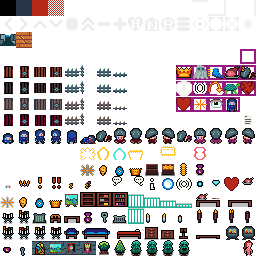
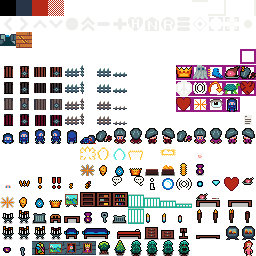
Implement item layering (allowing items to be drawn above player+guards) and glow animations.

diff --git a/src/game.ts b/src/game.ts
@@ -1,6 +1,6 @@
 import { vec2, mat4 } from './my-matrix';
 import { createGameMapRoughPlans, createGameRoughPlansDailyRun, createGameMap, Adjacency } from './create-map';
-import { BooleanGrid, Cell, ItemType, GameMap, Item, Player, LevelType, TerrainType, maxPlayerTurnsUnderwater, GuardStates, CellGrid, isDoorItemType, isWindowTerrainType } from './game-map';
+import { BooleanGrid, Cell, ItemType, GameMap, Item, Player, LevelType, TerrainType, maxPlayerTurnsUnderwater, GuardStates, CellGrid, isDoorItemType, isWindowTerrainType, itemLayers } from './game-map';
 import { SpriteAnimation, LightSourceAnimation, tween, LightState, FrameAnimator, TweenData, RadialAnimation as IdleRadialAnimation, PulsingColorAnimation, RadialAnimation } from './animation';
 import { Guard, GuardMode, chooseGuardMoves, guardActAll, isRelaxedGuardMode, lineOfSight } from './guard';
 import { Renderer } from './render';
@@ -383,6 +383,7 @@ export function setupLevel(state: State, level: number) {
     state.lightStates = new Array(state.gameMap.lightCount).fill(0);
     setLights(state.gameMap, state);
     setCellAnimations(state.gameMap, state);
+    setItemAnimations(state.gameMap, state);
     state.hintMessage = '';
     resetHealthBar(state);
     state.finishedLevel = false;
@@ -870,12 +871,12 @@ function collectGuardLoot(state:State, player:Player, guard:Guard, posNew:vec2, 
         guard.hasPurse = false;
         player.loot += 1;
         state.lootStolen += 1;
-        pickedItem = {pos:vec2.clone(guard.pos), type:ItemType.Coin};
+        pickedItem = {pos:vec2.clone(guard.pos), type:ItemType.Coin, topLayer:itemLayers[ItemType.Coin]};
     }
     if (guard.hasVaultKey) {
         guard.hasVaultKey = false;
         player.hasVaultKey = true;
-        pickedItem = {pos:vec2.clone(guard.pos), type:ItemType.Key};
+        pickedItem = {pos:vec2.clone(guard.pos), type:ItemType.Key, topLayer:itemLayers[ItemType.Key]};
     }
     const itemTiles = itemTileSetForLevelType(state.gameMapRoughPlans[state.level].levelType, entityTileSet);
     if(pickedItem) {
@@ -2401,11 +2402,11 @@ function renderTerrain(state: State, renderer: Renderer) {
 }
 
 
-function renderItems(state: State, renderer: Renderer) {
+function renderItems(state: State, renderer: Renderer, topLayer: boolean) {
     // Draw items
     const itemTiles = itemTileSetForLevelType(state.gameMapRoughPlans[state.level].levelType, renderer.entityTileSet);
 
-    for(const item of state.gameMap.items) {
+    for(const item of state.gameMap.items.filter(item=>item.topLayer===topLayer)) {
         let x = item.pos[0];
         let y = item.pos[1];
         const cell = state.gameMap.cells.at(x, y);
@@ -2434,10 +2435,15 @@ function renderItems(state: State, renderer: Renderer) {
                 renderer.addGlyphLit4(x, y, x + 1, y + 1, itemTiles[item.type], lv);
             }
         } else if (item.type===ItemType.Treasure) {
-            const ti = item.animation ?
-                item.animation.currentTile() :
-                itemTiles[item.type];
-            renderer.addGlyphLit4(x, y+0.5, x + 1, y + 1.5, ti, lv);
+            renderer.addGlyph(x, y+0.5, x + 1, y + 1.5, itemTiles[item.type]);
+            if (item.animation) {
+                renderer.addGlyph(x, y+0.5, x + 1, y + 1.5, item.animation.currentTile());
+            }
+        } else if (item.type===ItemType.Coin) {
+            renderer.addGlyph(x, y, x + 1, y + 1, itemTiles[item.type]);
+            if (item.animation) {
+                renderer.addGlyph(x, y, x + 1, y + 1, item.animation.currentTile());
+            }
         } else {
             const ti = item.animation ?
                 item.animation.currentTile() :
@@ -3022,6 +3028,7 @@ function initState(sounds:Howls, subtitledSounds: SubtitledHowls, activeSoundPoo
 
     setLights(gameMap, state);
     setCellAnimations(gameMap, state);
+    setItemAnimations(gameMap, state);
     chooseGuardMoves(state);
     postTurn(state);
     showMoveTutorialNotifications(state, state.player.pos);
@@ -3051,6 +3058,16 @@ function setCellAnimations(gameMap: GameMap, state: State) {
         if(c.type===TerrainType.GroundWater) {
             c.animation = new FrameAnimator(waterTileSetForLevelType(levelType, tileSet), 1, (counter*1369)%4);
             counter++;
+        }
+    }
+}
+
+function setItemAnimations(gameMap: GameMap, state: State) {
+    for (let item of gameMap.items) {
+        if (item.type===ItemType.Treasure) {
+            item.animation = new PulsingColorAnimation(getEntityTileSet().itemGlows[item.type], 0, 1);
+        } else if (item.type===ItemType.Coin) {
+            item.animation = new PulsingColorAnimation(getEntityTileSet().itemGlows[item.type], 0, .75);
         }
     }
 }
@@ -3143,6 +3160,7 @@ export function restartGame(state: State) {
     state.lightStates = Array(gameMap.lightCount).fill(0);
     setLights(gameMap, state);
     setCellAnimations(gameMap, state);
+    setItemAnimations(gameMap, state);
     state.gameMode = GameMode.Mansion;
     state.hintMessage = '';
     resetHealthBar(state);
@@ -3189,6 +3207,7 @@ function resetState(state: State) {
     state.lightStates = Array(gameMap.lightCount).fill(0);
     setLights(gameMap, state);
     setCellAnimations(gameMap, state);
+    setItemAnimations(gameMap, state);
     state.turns = 0;
     state.totalTurns = 0;
     state.lootStolen = 0;
@@ -3384,6 +3403,9 @@ function updateState(state: State, screenSize: vec2, dt: number) {
     for(let c of state.gameMap.cells.values) {
         c.animation?.update(dt);
     }
+    for(let i of state.gameMap.items) {
+        i.animation?.update(dt);
+    }
     for(let g of state.gameMap.guards) {
         if(g.animation?.update(dt)) {
             g.animation = null;
@@ -3435,7 +3457,7 @@ function renderScene(renderer: Renderer, screenSize: vec2, state: State) {
     renderer.flush();
 
     renderer.start(matScreenFromWorld, TextureType.Entity);
-    renderItems(state, renderer);
+    renderItems(state, renderer, false);
     if(state.gameMode===GameMode.Mansion) {
         renderGuardSight(state, renderer);
         renderGuardPatrolPaths(state, renderer);
@@ -3444,6 +3466,7 @@ function renderScene(renderer: Renderer, screenSize: vec2, state: State) {
     if ((state.gameMode !== GameMode.MansionComplete && state.gameMode !== GameMode.Win) || state.player.animation) {
         renderPlayer(state, renderer);
     }
+    renderItems(state, renderer, true);
     renderParticles(state, renderer);
     if(state.gameMode===GameMode.Mansion) {
         renderIconOverlays(state, renderer);

diff --git a/src/create-map.ts b/src/create-map.ts
@@ -1,6 +1,6 @@
 export { createGameMap, createGameMapRoughPlans, createGameRoughPlansDailyRun, Adjacency };
 
-import { BooleanGrid, CellGrid, Int32Grid, Item, ItemType, Float64Grid, GameMap, GameMapRoughPlan, LevelType, TerrainType, TreasureInfo, guardMoveCostForItemType, isWindowTerrainType } from './game-map';
+import { BooleanGrid, CellGrid, Int32Grid, Item, ItemType, Float64Grid, GameMap, GameMapRoughPlan, LevelType, TerrainType, TreasureInfo, guardMoveCostForItemType, isWindowTerrainType, itemLayers } from './game-map';
 import { Guard } from './guard';
 import { vec2 } from './my-matrix';
 import { RNG } from './random';
@@ -4347,7 +4347,8 @@ function renderRoomVault(map: GameMap, room: Room, rng: RNG) {
         console.assert(usable.get(pos[0], pos[1]));
         console.assert(!occupied.get(pos[0], pos[1]));
 
-        const item = { pos: vec2.fromValues(pos[0] + room.posMin[0], pos[1] + room.posMin[1]), type: candidateItems[iItemType] };
+        const iType = candidateItems[iItemType];
+        const item = { pos: vec2.fromValues(pos[0] + room.posMin[0], pos[1] + room.posMin[1]), type: iType, topLayer:itemLayers[iType] };
         map.items.push(item);
         itemsInRoom.push(item);
 
@@ -4429,8 +4430,8 @@ function renderRoomBedroom(map: GameMap, room: Room, level: number, rng: RNG) {
         const pos0 = potentialPositions[rng.randomInRange(potentialPositions.length)];
         const pos1 = vec2.fromValues(pos0[0] + 1, pos0[1]);
 
-        const itemBedL = { pos: vec2.clone(pos0), type: ItemType.BedL };
-        const itemBedR = { pos: vec2.clone(pos1), type: ItemType.BedR };
+        const itemBedL = { pos: vec2.clone(pos0), type: ItemType.BedL, topLayer:itemLayers[ItemType.BedL] };
+        const itemBedR = { pos: vec2.clone(pos1), type: ItemType.BedR, topLayer:itemLayers[ItemType.BedR] };
         map.items.push(itemBedL);
         map.items.push(itemBedR);
         itemsInRoom.push(itemBedL); // will check adjacency for the right side of the bed with this too
@@ -4467,7 +4468,7 @@ function renderRoomBedroom(map: GameMap, room: Room, level: number, rng: RNG) {
         console.assert(usable.get(pos[0], pos[1]));
         console.assert(!occupied.get(pos[0], pos[1]));
 
-        const item = { pos: vec2.fromValues(pos[0] + room.posMin[0], pos[1] + room.posMin[1]), type: itemType };
+        const item = { pos: vec2.fromValues(pos[0] + room.posMin[0], pos[1] + room.posMin[1]), type: itemType, topLayer:itemLayers[itemType] };
         map.items.push(item);
         itemsInRoom.push(item);
 
@@ -5254,6 +5255,7 @@ function placeItem(map: GameMap, pos: vec2, type: ItemType) {
     map.items.push({
         pos: vec2.clone(pos),
         type: type,
+        topLayer: itemLayers[type],
     });
 }
 
@@ -5569,6 +5571,7 @@ function placeTreasure(map: GameMap, rooms: Array<Room>, rng: RNG) {
             const note = {
                 pos: vec2.clone(pos),
                 type: ItemType.Note,
+                topLayer: itemLayers[ItemType.Note],
             };
             map.items.push(note);
             map.bookTitle.set(note, clue);

diff --git a/src/tilesets.ts b/src/tilesets.ts
@@ -1,5 +1,6 @@
 import * as colorPreset from './color-preset';
 import { Achievements } from './achievements';
+import { ItemType } from './game-map';
 
 const entityImageTileset31Color = require('url:./entitytiles31color.png');
 const terrainImageTileset31Color = require('url:./terraintiles31color.png');
@@ -63,6 +64,10 @@ export type EntityTileSet = {
         dead:    TileInfo;
         litFace: TileInfo;
     };
+    itemGlows : {
+        [ItemType.Coin]: TileInfo;
+        [ItemType.Treasure]: TileInfo;
+    }
     unlitTile: TileInfo;
     stoveAnimation: Array<TileInfo>;
     candleAnimation: Array<TileInfo>;
@@ -341,6 +346,10 @@ const entityTileSet31Color:EntityTileSet = {
         'forceRestart':     {textureIndex: r([10, 1]), color:0xa0ffffff, unlitColor:0x30ffffff},
         'fullscreen':       {textureIndex: r([14, 1]), color:0xa0ffffff, unlitColor:0x30ffffff},
     },
+    itemGlows: {
+        [ItemType.Coin]:    {textureIndex: r([12,  9]),  color:0xa0ffffff,      unlitColor:0x00ffffff},
+        [ItemType.Treasure]:{textureIndex: r([5,   9]),  color:0xa0ffffff,      unlitColor:0x00ffffff},
+    },
     itemTiles: [
         {textureIndex: r([3,  13]),  color:colorPreset.white,      unlitColor:colorItemUnlit}, // ItemType.Chair,
         {textureIndex: r([4,  13]),  color:colorPreset.white,      unlitColor:colorItemUnlit}, // ItemType.Table,
@@ -369,7 +378,7 @@ const entityTileSet31Color:EntityTileSet = {
         {textureIndex: r([15,  7]),  color:colorPreset.white,      unlitColor:colorItemUnlit}, // ItemType.Note,
         {textureIndex: r([8,  13]),  color:colorPreset.white,      unlitColor:colorItemUnlit}, // ItemType.TreasureLockBox,
         {textureIndex: r([7,  13]),  color:colorPreset.white,      unlitColor:colorItemUnlit}, // ItemType.TreasurePlinth,
-        {textureIndex: r([0,  12]),  color:colorPreset.white,      unlitColor:colorPreset.white}, // ItemType.Treasure,
+        {textureIndex: r([5,  10]),  color:colorPreset.white,      unlitColor:colorPreset.white}, // ItemType.Treasure,
     ],
     redWallItemTiles: [
         {textureIndex: r([3,  13]),  color:colorPreset.white,      unlitColor:colorItemUnlit}, // ItemType.Chair,

diff --git a/src/game-map.ts b/src/game-map.ts
@@ -279,10 +279,42 @@ enum ItemType {
     Treasure,
 }
 
+export const itemLayers: Record<ItemType, boolean> = {
+    [ItemType.Chair]: false,
+    [ItemType.Table]: false,
+    [ItemType.BedL]: false,
+    [ItemType.BedR]: false,
+    [ItemType.DrawersShort]: false,
+    [ItemType.DrawersTall]: false,
+    [ItemType.Bookshelf]: false,
+    [ItemType.Shelf]: false,
+    [ItemType.Stove]: false,
+    [ItemType.Bush]: false,
+    [ItemType.Coin]: true,
+    [ItemType.Health]: false,
+    [ItemType.DoorNS]: false,
+    [ItemType.DoorEW]: false,
+    [ItemType.LockedDoorNS]: false,
+    [ItemType.LockedDoorEW]: false,
+    [ItemType.PortcullisNS]: false,
+    [ItemType.PortcullisEW]: false,
+    [ItemType.TorchUnlit]: false,
+    [ItemType.TorchLit]: false,
+    [ItemType.TorchCarry]: false, //TODO: Next four don't belong here because they are carried by guards but solves a problem for now.
+    [ItemType.PurseCarry]: false,
+    [ItemType.Key]: false,
+    [ItemType.KeyCarry]: false, 
+    [ItemType.Note]: false,
+    [ItemType.TreasureLock]: true,
+    [ItemType.TreasurePlinth]: false,
+    [ItemType.Treasure]: true,
+}
+
 type Item = {
     pos: vec2;
     type: ItemType;
     animation? : Animator;
+    topLayer: boolean;
 }
 
 function guardMoveCostForItemType(itemType: ItemType): number {

diff --git a/src/animation.ts b/src/animation.ts
@@ -113,7 +113,7 @@ export class PulsingColorAnimation extends Animator {
     /**
      * 
      * @param tile Tile index and optional color tint values for lit and unlit states
-     * @param duration Lenght of time the animation will run for
+     * @param duration Length of time the animation will run for
      * @param period 
      */
     constructor(tile:TileInfo, duration:number, period:number) {
